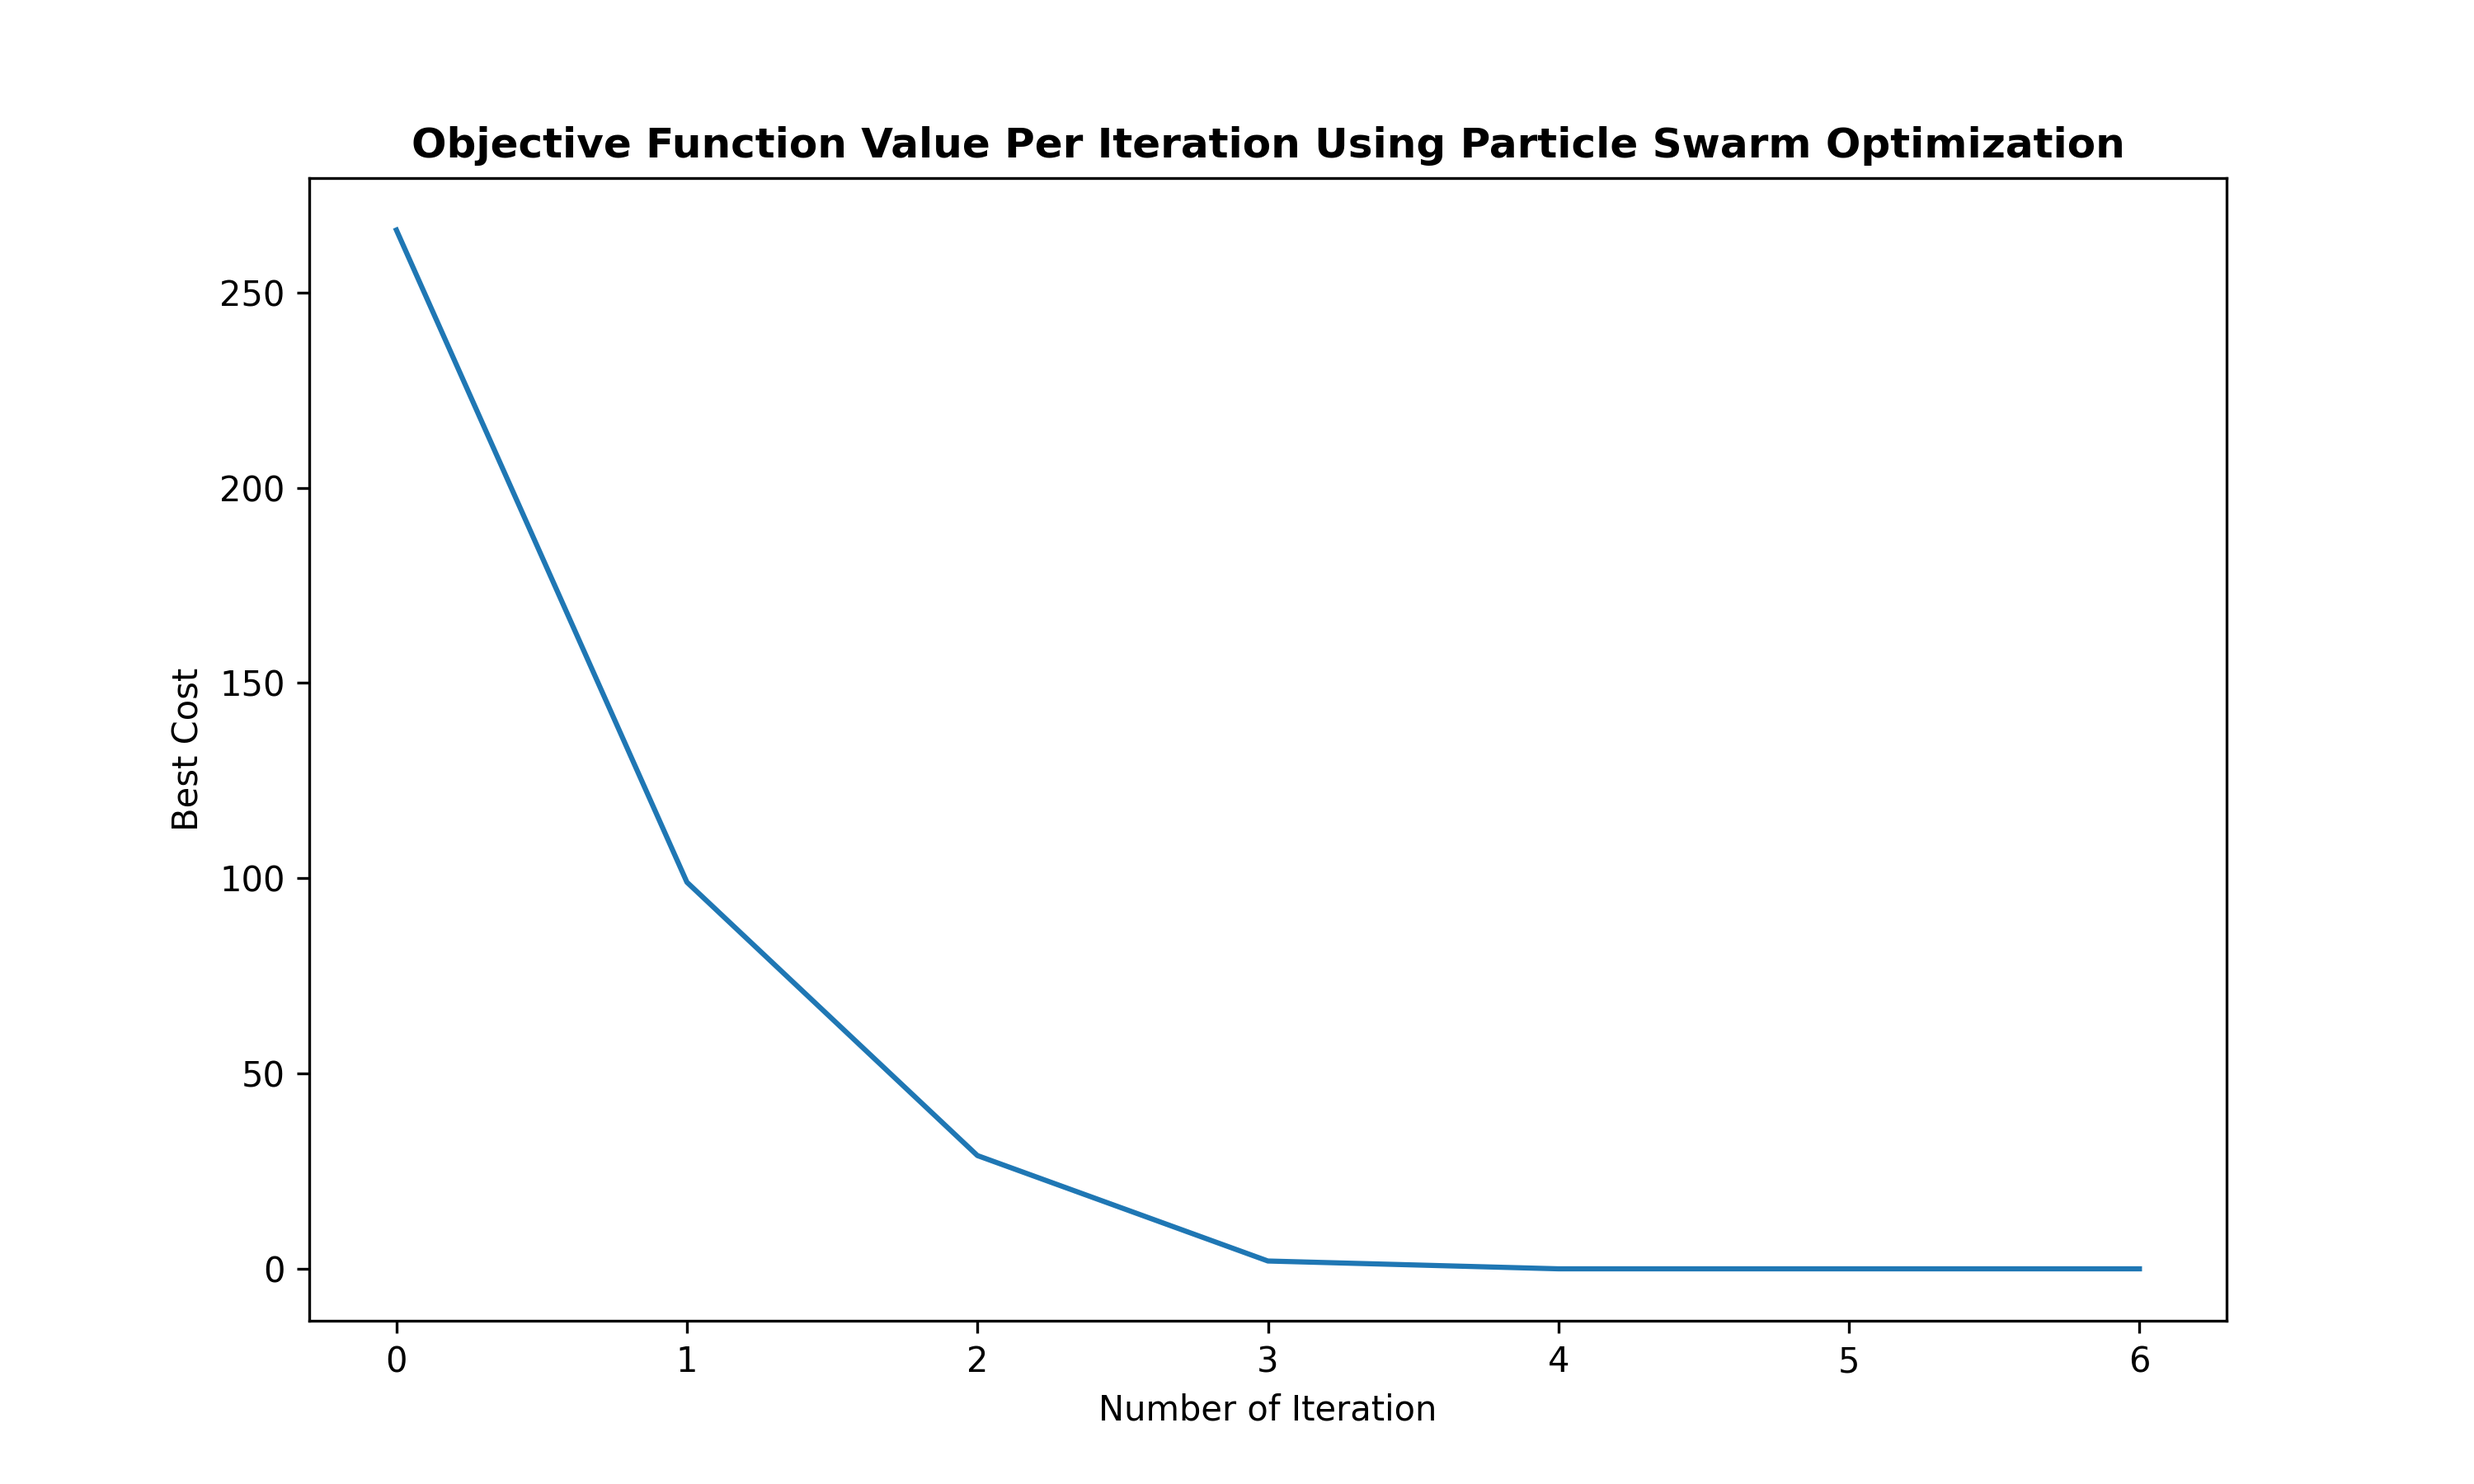
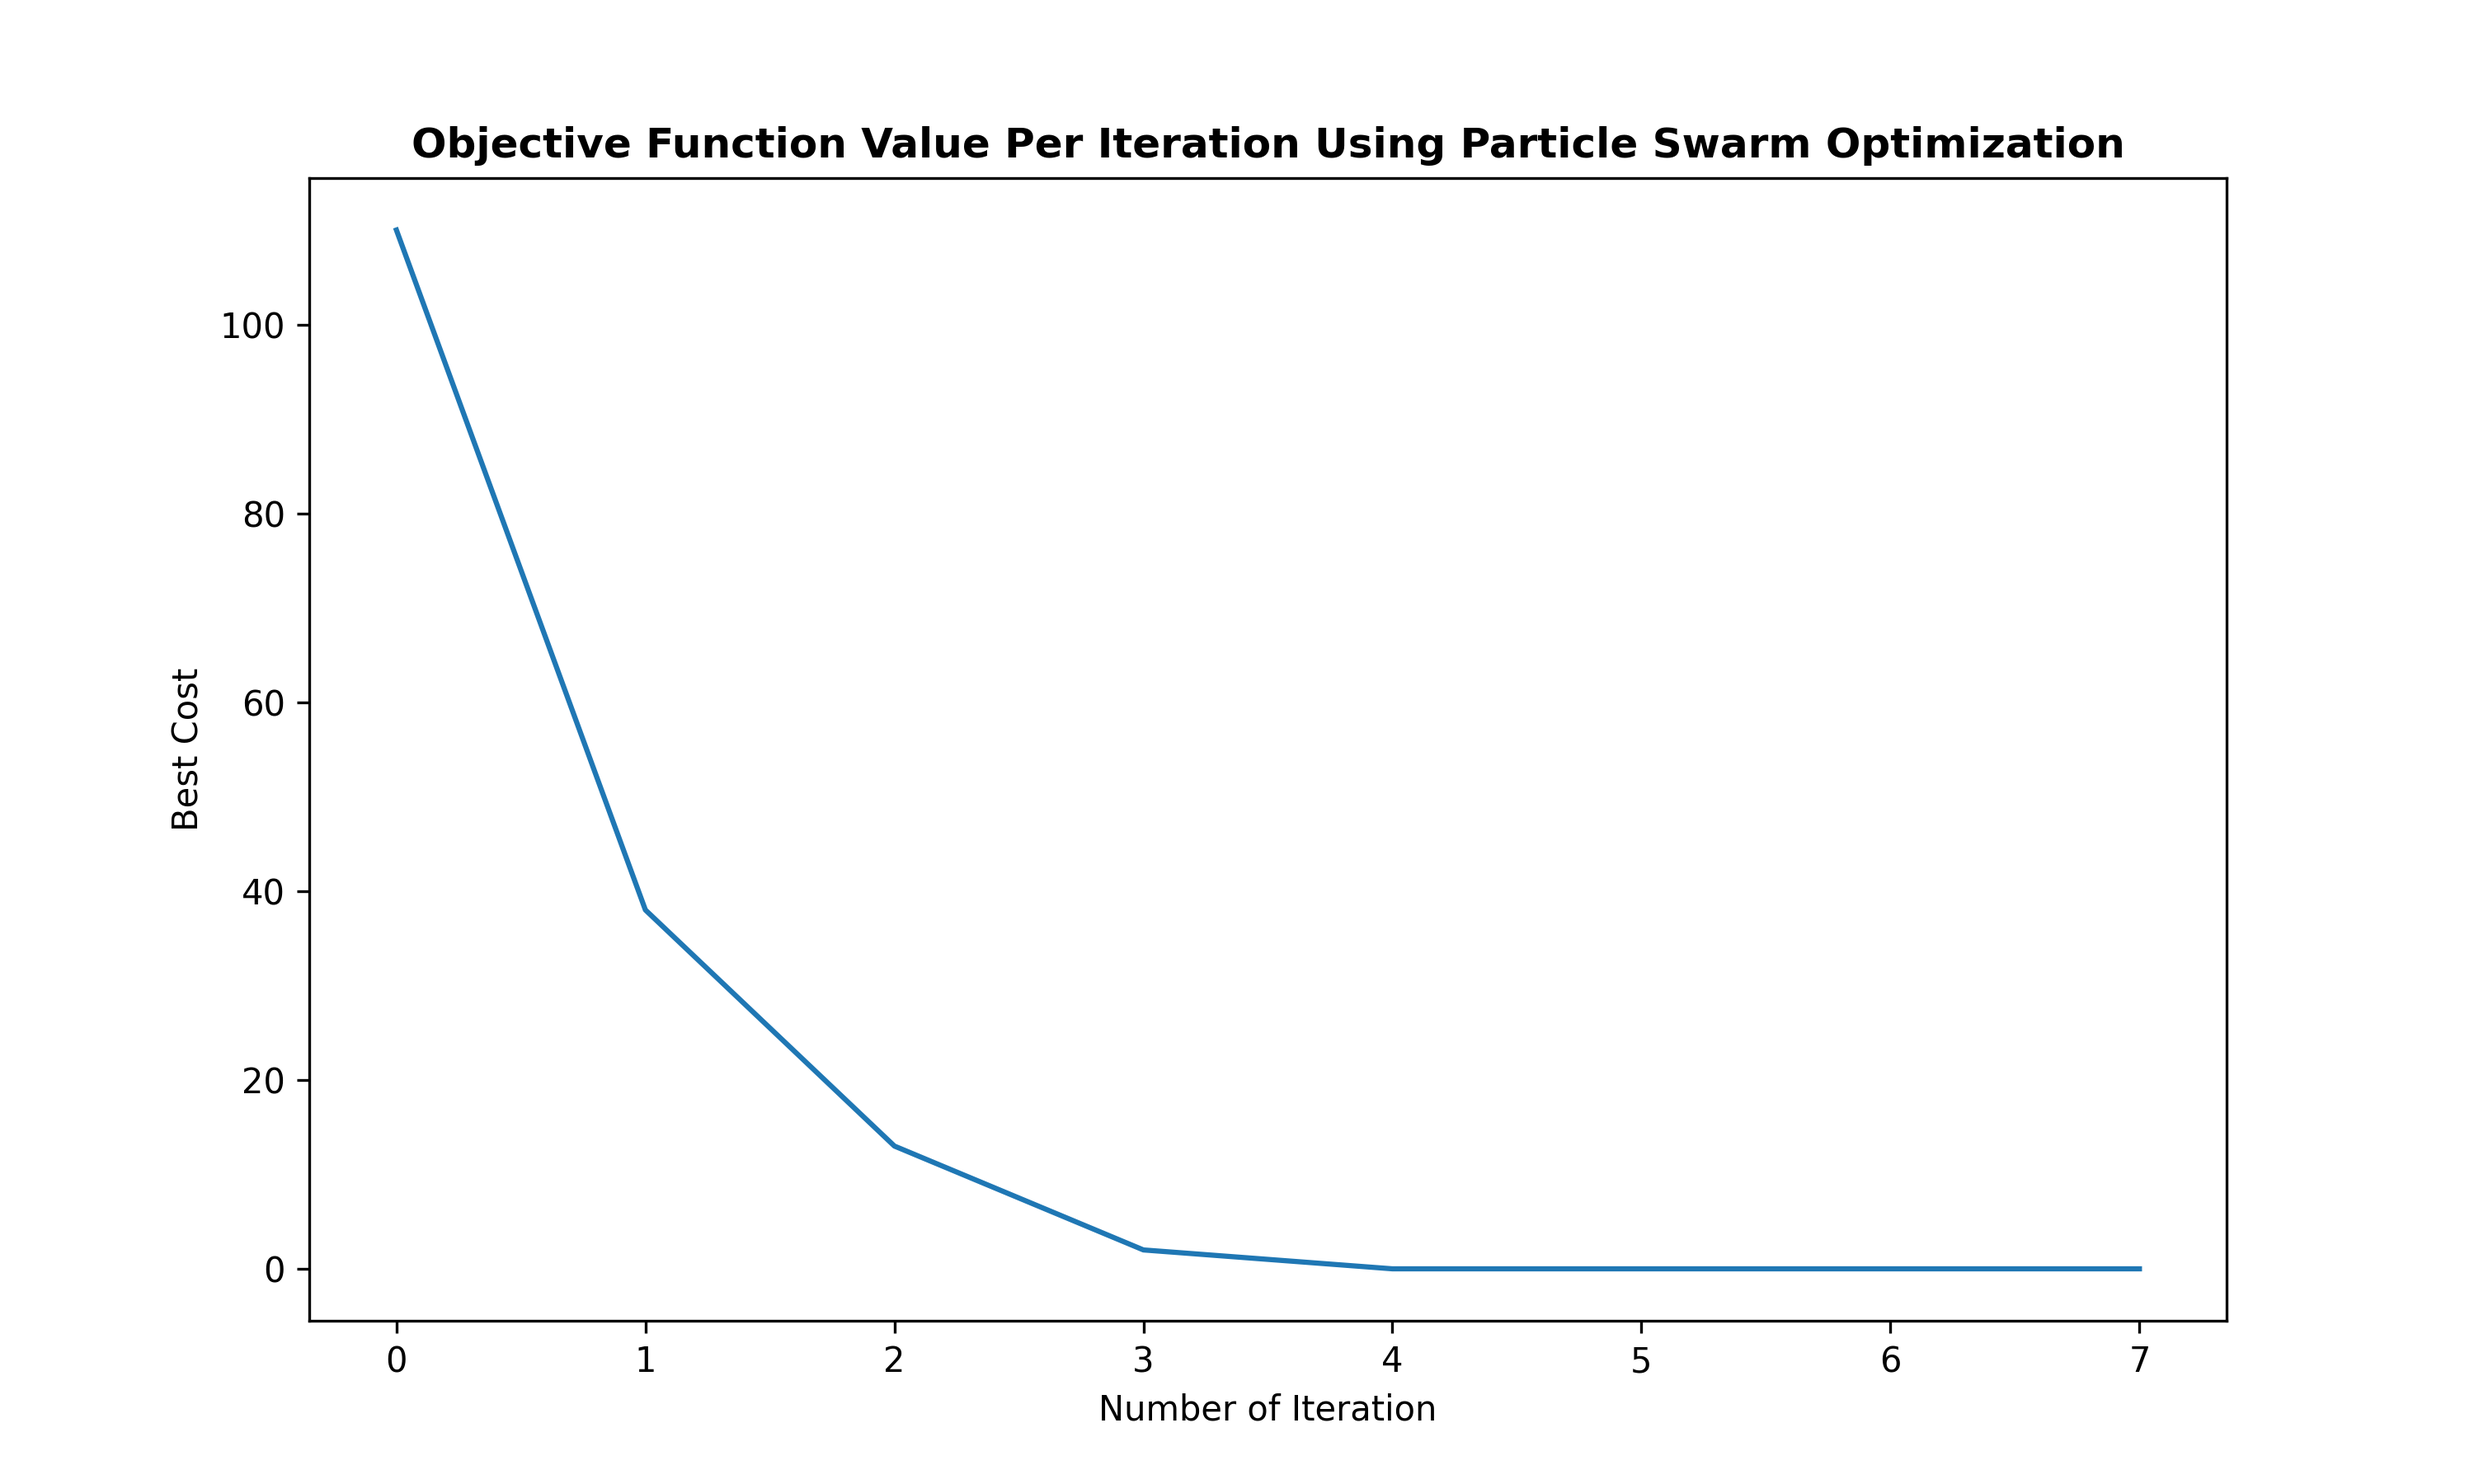
minOne problem solved using particle swarm optimization.

diff --git a/min_one_problem/main.py b/min_one_problem/main.py
@@ -35,7 +35,7 @@ def main():
                           type_number_of_variables=type_number_of_variables,
                           min_range_of_variables=0,
                           max_range_of_variables=1,
-                          max_iteration=7,
+                          max_iteration=8,
                           number_of_particles=150,
                           inertia_rate=0.7298,
                           inertia_damping_rate=1,
